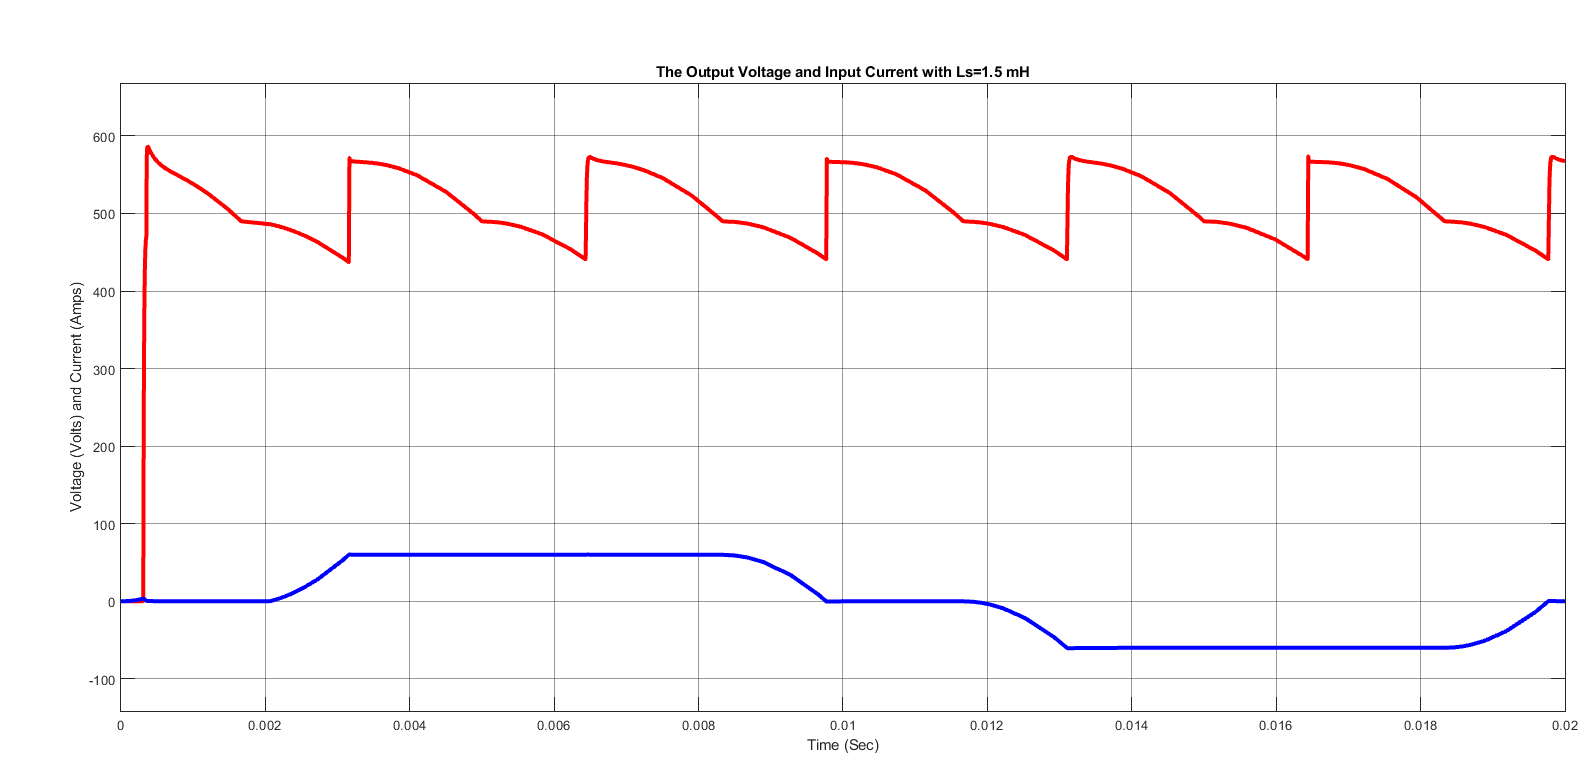
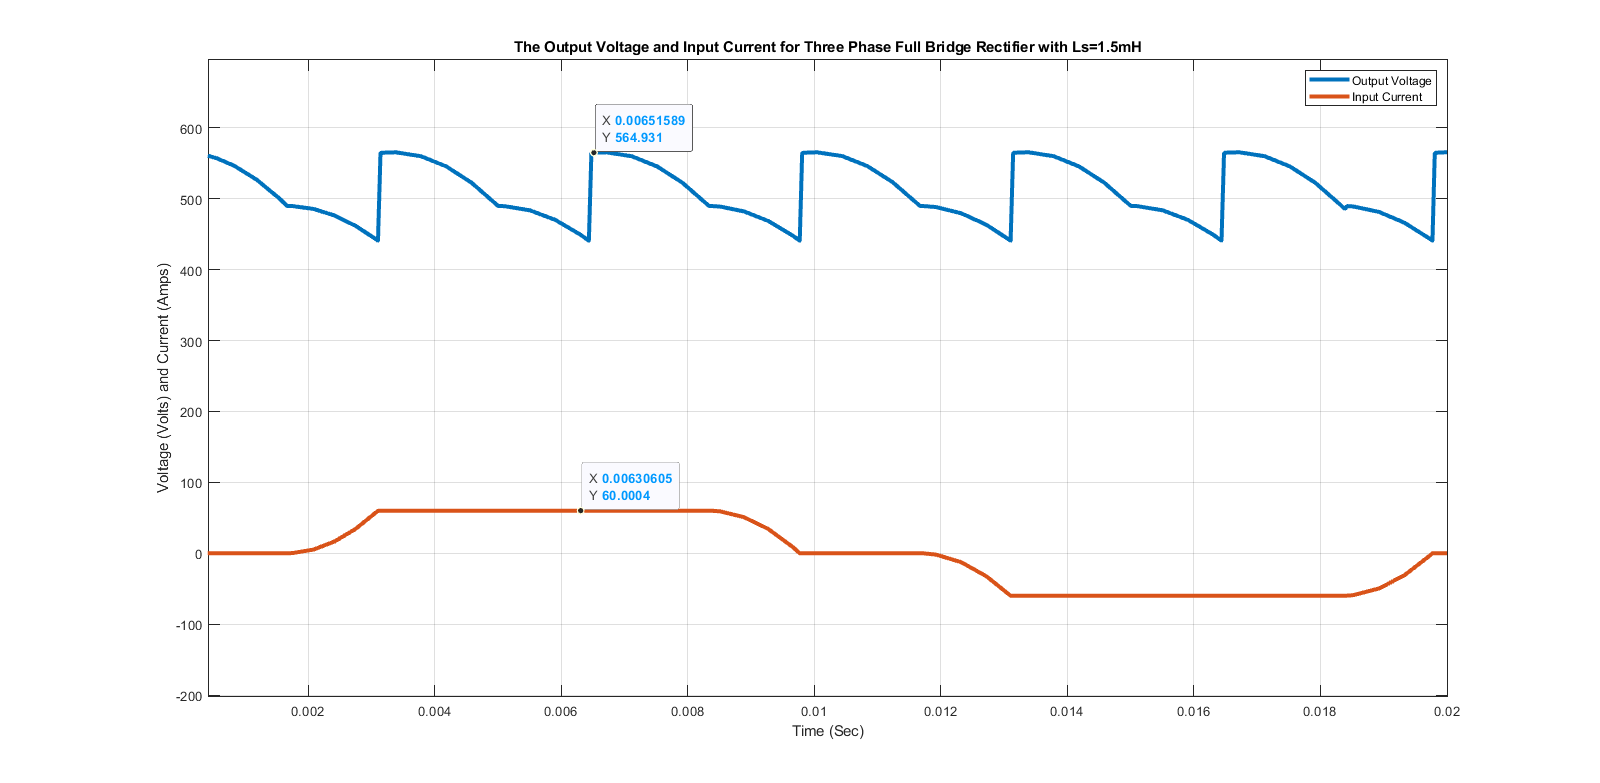
three phase full bridge with Ls=1.5mH and harmonics analysis

diff --git a/Q3/HW1_Q3_Part4_plot.m b/Q3/HW1_Q3_Part4_plot.m
@@ -1,0 +1,11 @@
+plot(tout,output_voltage,'LineWidth',3);
+hold on
+plot (tout,input_current,'LineWidth',3);
+xlim([0.0004 0.02]);
+ylim([-200 700]);
+title('The Output Voltage and Input Current for Three Phase Full Bridge Rectifier with Ls=1.5mH');
+xlabel('Time (Sec)');
+ylabel('Voltage (Volts) and Current (Amps')
+grid on
+hold off
+
